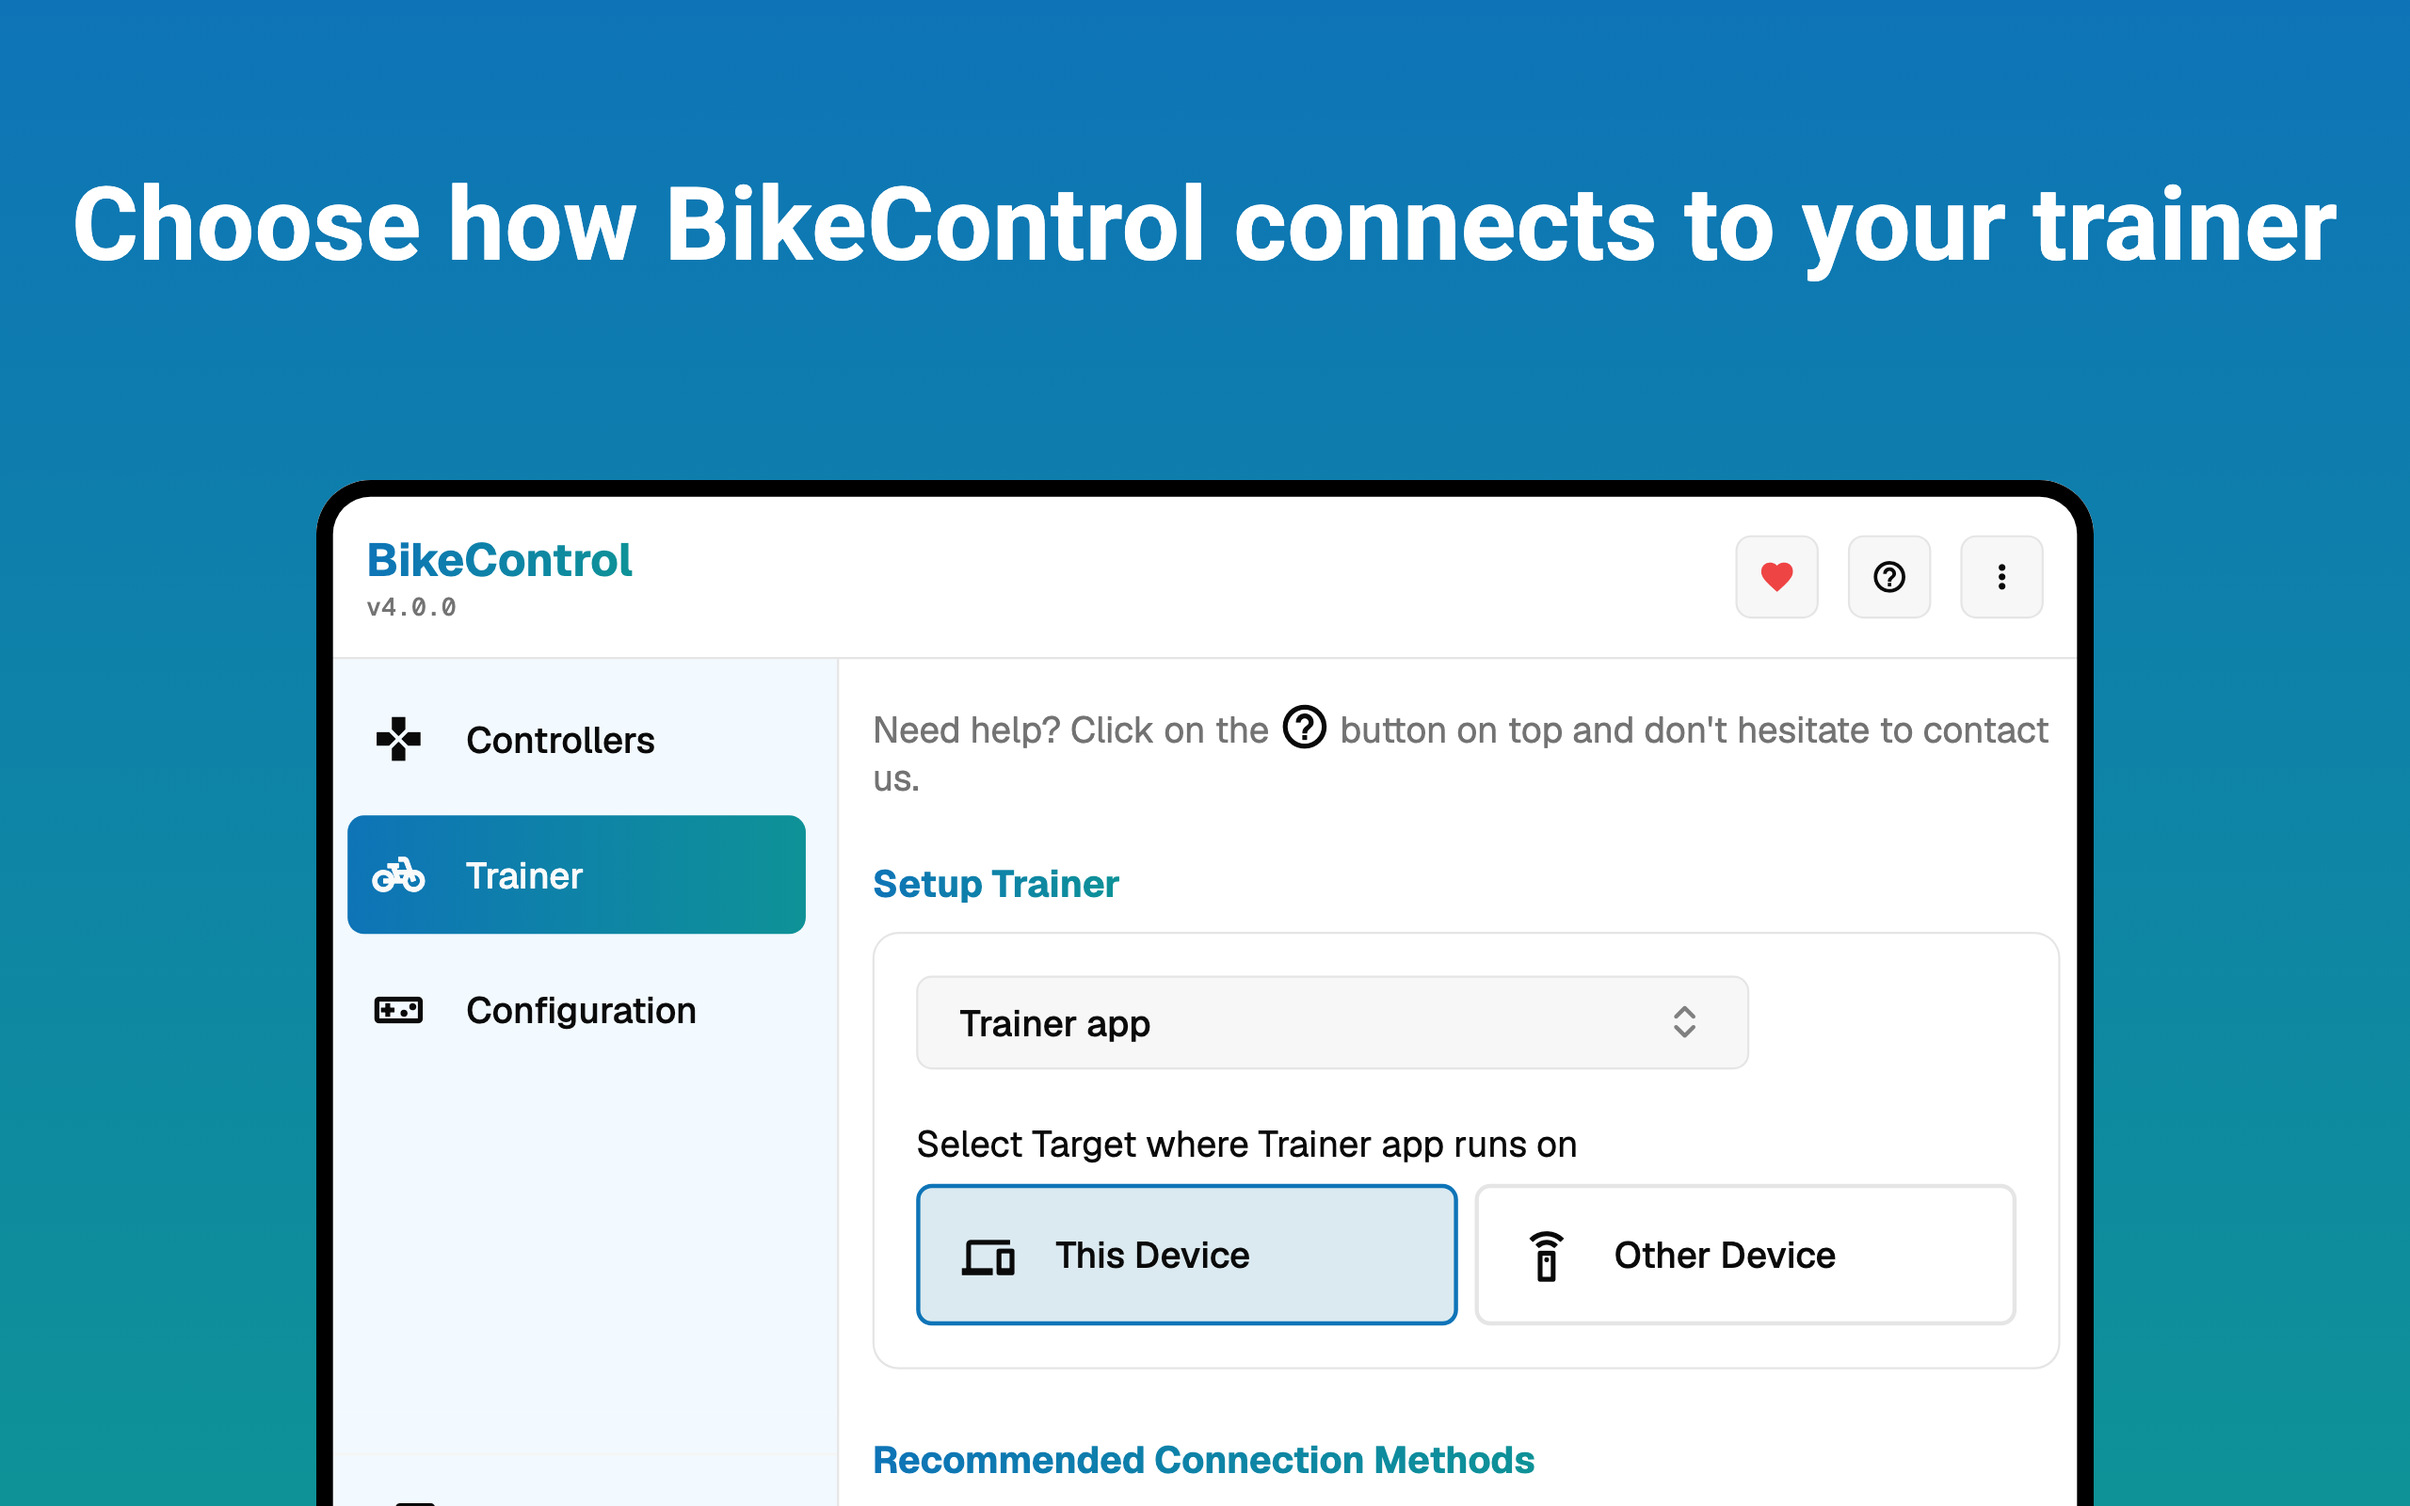
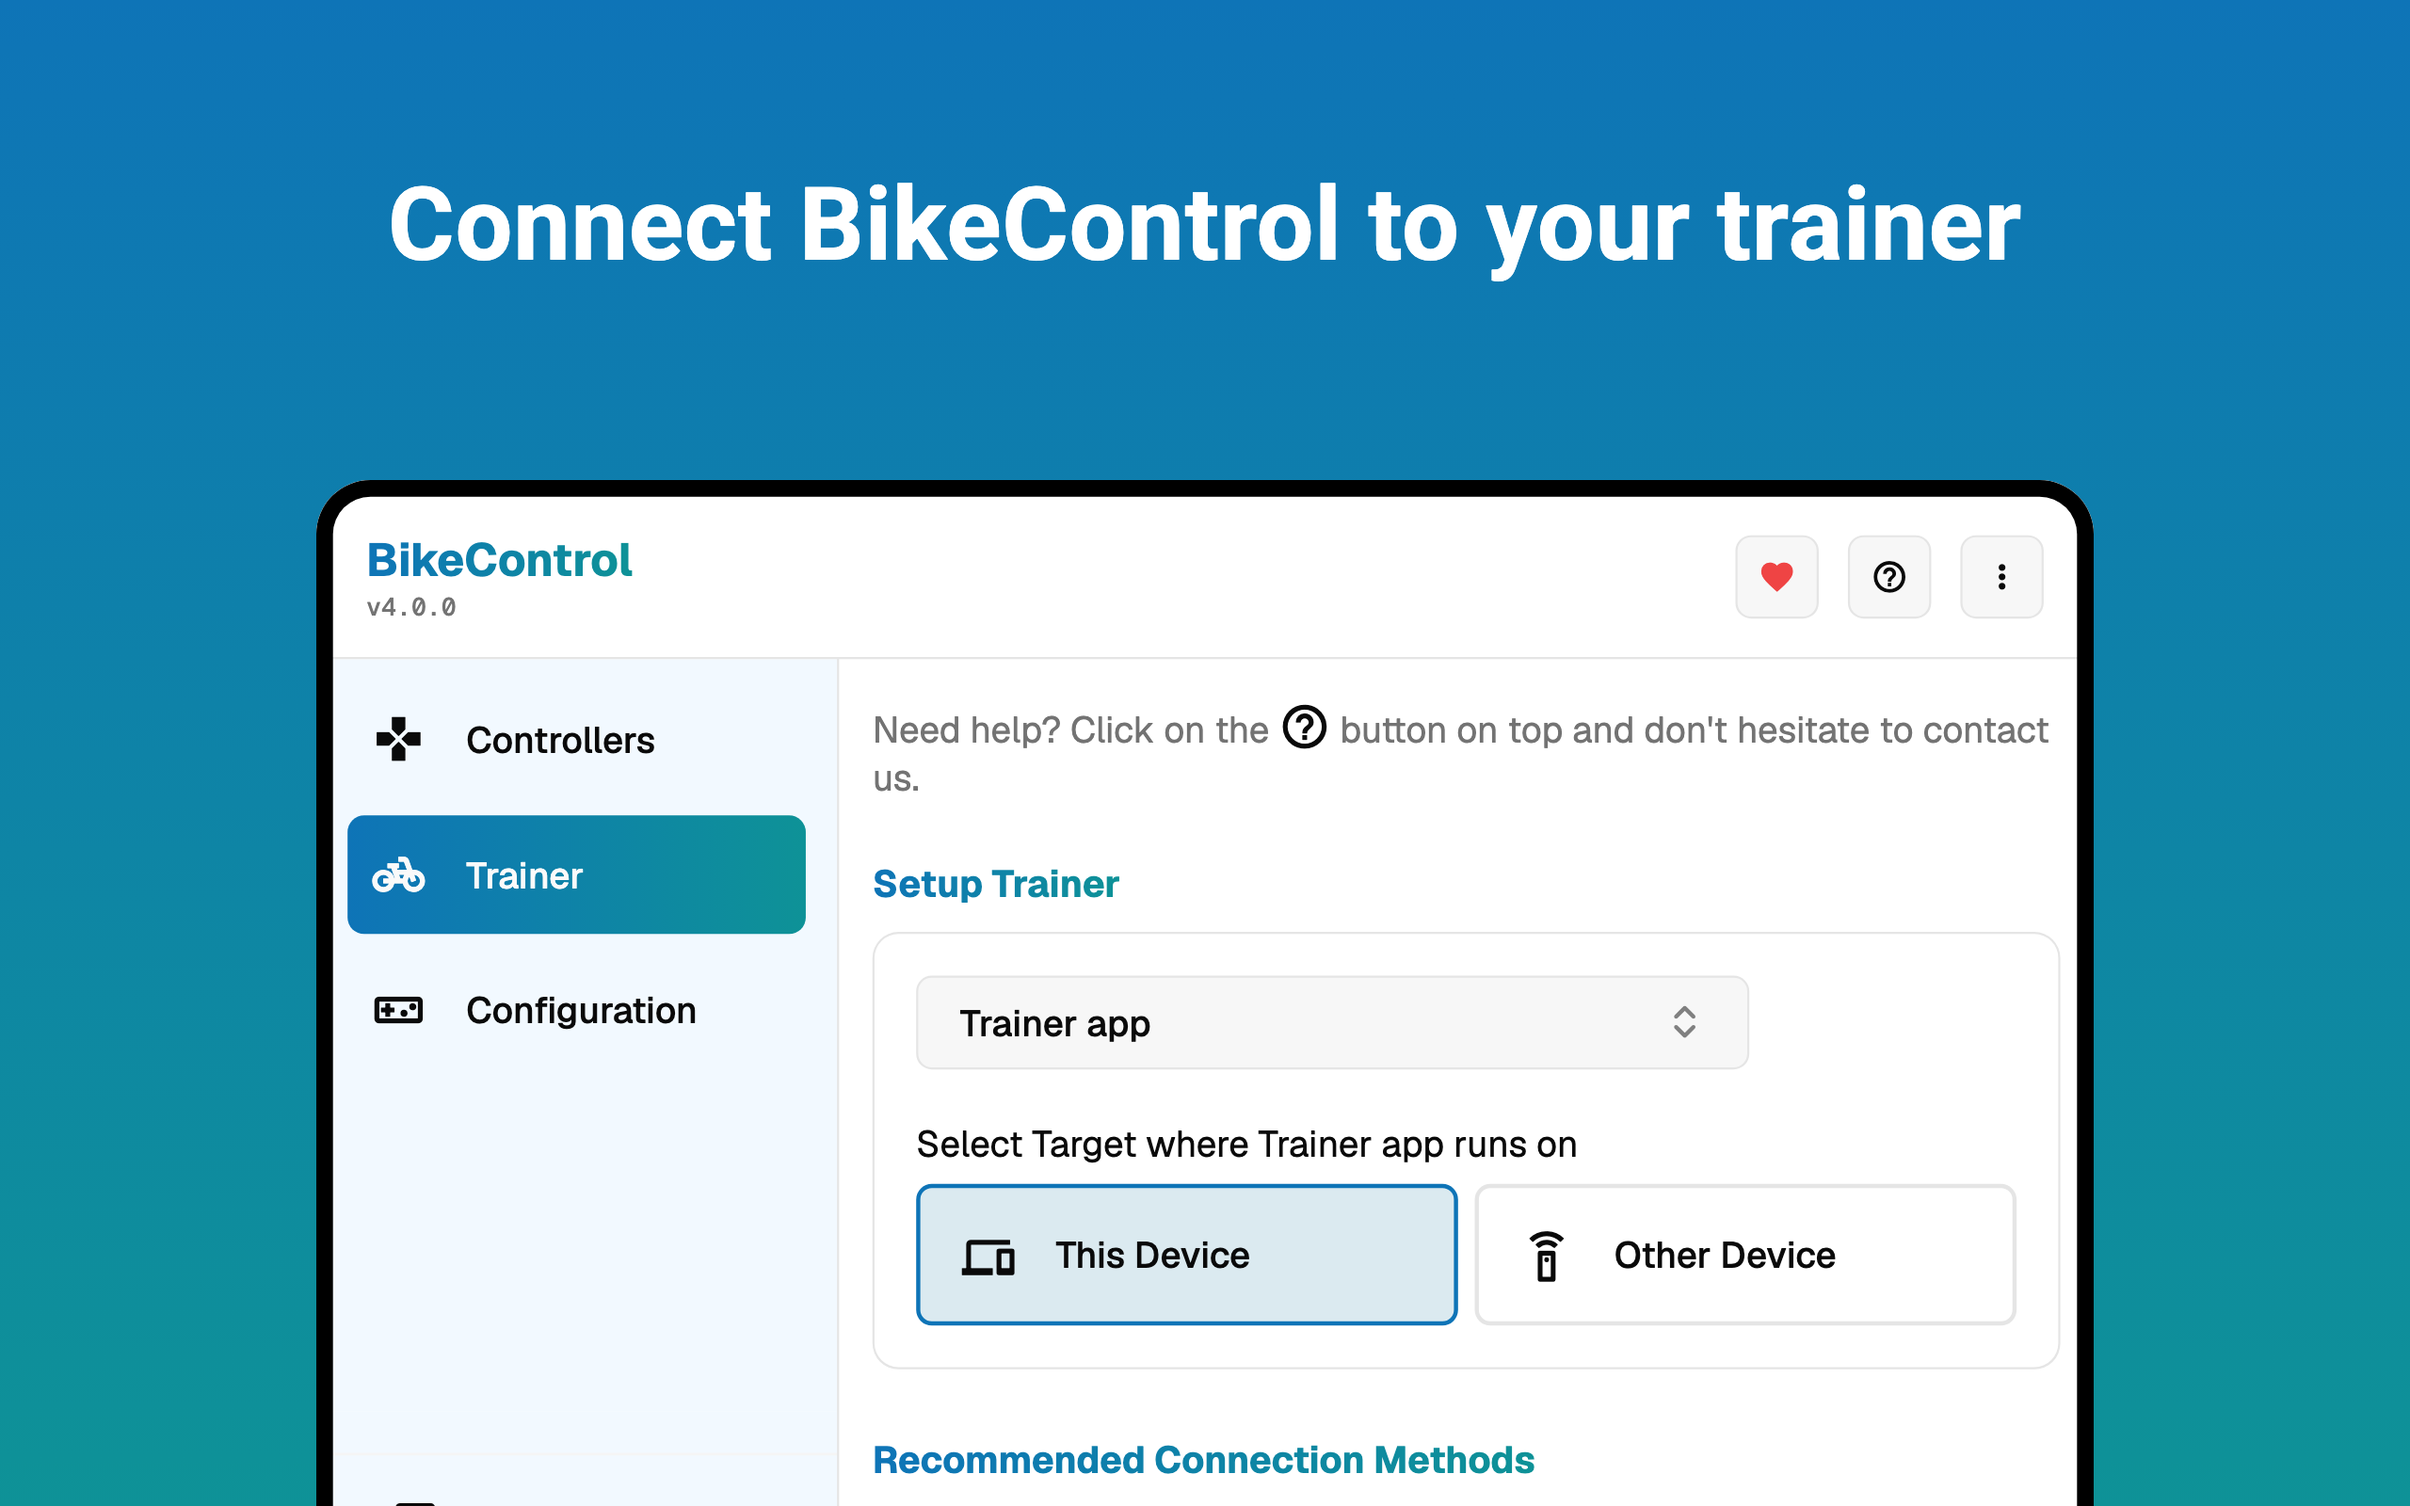
update screenshots

Changed region(s): [[0.0312, 0.125, 0.9688, 0.1875]]

diff --git a/test/screenshot_test.dart b/test/screenshot_test.dart
@@ -117,7 +117,7 @@ Future<void> main() async {
                   required Widget child,
                 }) => CustomFrame(
                   platform: size.type,
-                  title: 'BikeControl connects to your favorite controller',
+                  title: 'BikeControl connects to any controller',
                   device: device,
                   child: child,
                 ),
@@ -155,7 +155,7 @@ Future<void> main() async {
                   required Widget child,
                 }) => CustomFrame(
                   platform: size.type,
-                  title: 'Choose how BikeControl connects to your trainer',
+                  title: 'Connect BikeControl to your trainer',
                   device: device,
                   child: child,
                 ),

diff --git a/test/custom_frame.dart b/test/custom_frame.dart
@@ -38,7 +38,7 @@ class CustomFrame extends StatelessWidget {
                 fit: StackFit.expand,
                 children: [
                   Padding(
-                    padding: const EdgeInsets.symmetric(vertical: 54, horizontal: 8),
+                    padding: const EdgeInsets.symmetric(vertical: 54, horizontal: 16),
                     child: Text(
                       title,
                       textAlign: TextAlign.center,
